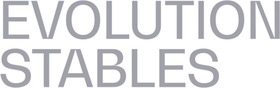
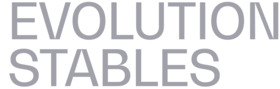
deploy: grey wordmark JPG header for Prudentia Q2 investor email

diff --git a/public/updates/prudentia_q2_report_02july2026_email.html b/public/updates/prudentia_q2_report_02july2026_email.html
@@ -15,12 +15,7 @@
     img { -ms-interpolation-mode: bicubic; max-width: 100%; height: auto; display: block; }
     table { border-collapse: collapse; }
     * { box-sizing: border-box; }
-    .logo-dark { display: none !important; overflow: hidden; max-height: 0; }
     .masthead-mobile { display: none !important; max-height: 0 !important; overflow: hidden !important; mso-hide: all; }
-    @media (prefers-color-scheme: dark) {
-      .logo-light { display: none !important; max-height: 0 !important; overflow: hidden !important; }
-      .logo-dark { display: block !important; max-height: none !important; overflow: visible !important; }
-    }
     @media only screen and (max-width: 600px) {
       .outer-padding { padding: 16px 12px !important; }
       .container-padding,
@@ -52,11 +47,10 @@
             <td class="container-padding" style="background-color: #ffffff; padding: 48px 48px 16px 48px; text-align: left;">
               <table role="presentation" border="0" cellpadding="0" cellspacing="0" width="100%" style="margin-bottom: 32px;">
                 <tr>
-                  <td align="left" valign="top" style="vertical-align: top; padding: 0; width: 1%;">
-                    <img class="logo-light" src="https://www.evolutionstables.nz/updates/evolution-stables-logo-header-black.png" alt="Evolution Stables" width="240" style="width: 240px; max-width: 100%; height: auto; display: block; border: 0; margin: 0;">
-                    <img class="logo-dark" src="https://www.evolutionstables.nz/updates/evolution-stables-logo-header-white.png" alt="Evolution Stables" width="240" style="width: 240px; max-width: 100%; height: auto; display: none; border: 0; overflow: hidden; max-height: 0; margin: 0;">
+                  <td align="left" valign="top" style="vertical-align: top; padding: 0;">
+                    <img src="https://www.evolutionstables.nz/updates/evolution-stables-wordmark-muted-grey.jpg" alt="Evolution Stables" width="280" style="width: 280px; max-width: 100%; height: auto; display: block; border: 0;">
                   </td>
-                  <td class="masthead-desktop" align="right" valign="top" style="vertical-align: top; font-family: 'Inter', sans-serif; font-size: 11px; font-weight: 500; color: #666666; text-align: right; line-height: 1.5; letter-spacing: 0.04em;">
+                  <td class="masthead-desktop" align="right" valign="top" style="vertical-align: top; padding: 0; font-family: 'Inter', sans-serif; font-size: 11px; font-weight: 500; color: #666666; text-align: right; line-height: 1.5; letter-spacing: 0.04em; white-space: nowrap;">
                     VOL. 28 // NO. 10<br>
                     DATE: 02.07.2026
                   </td>
